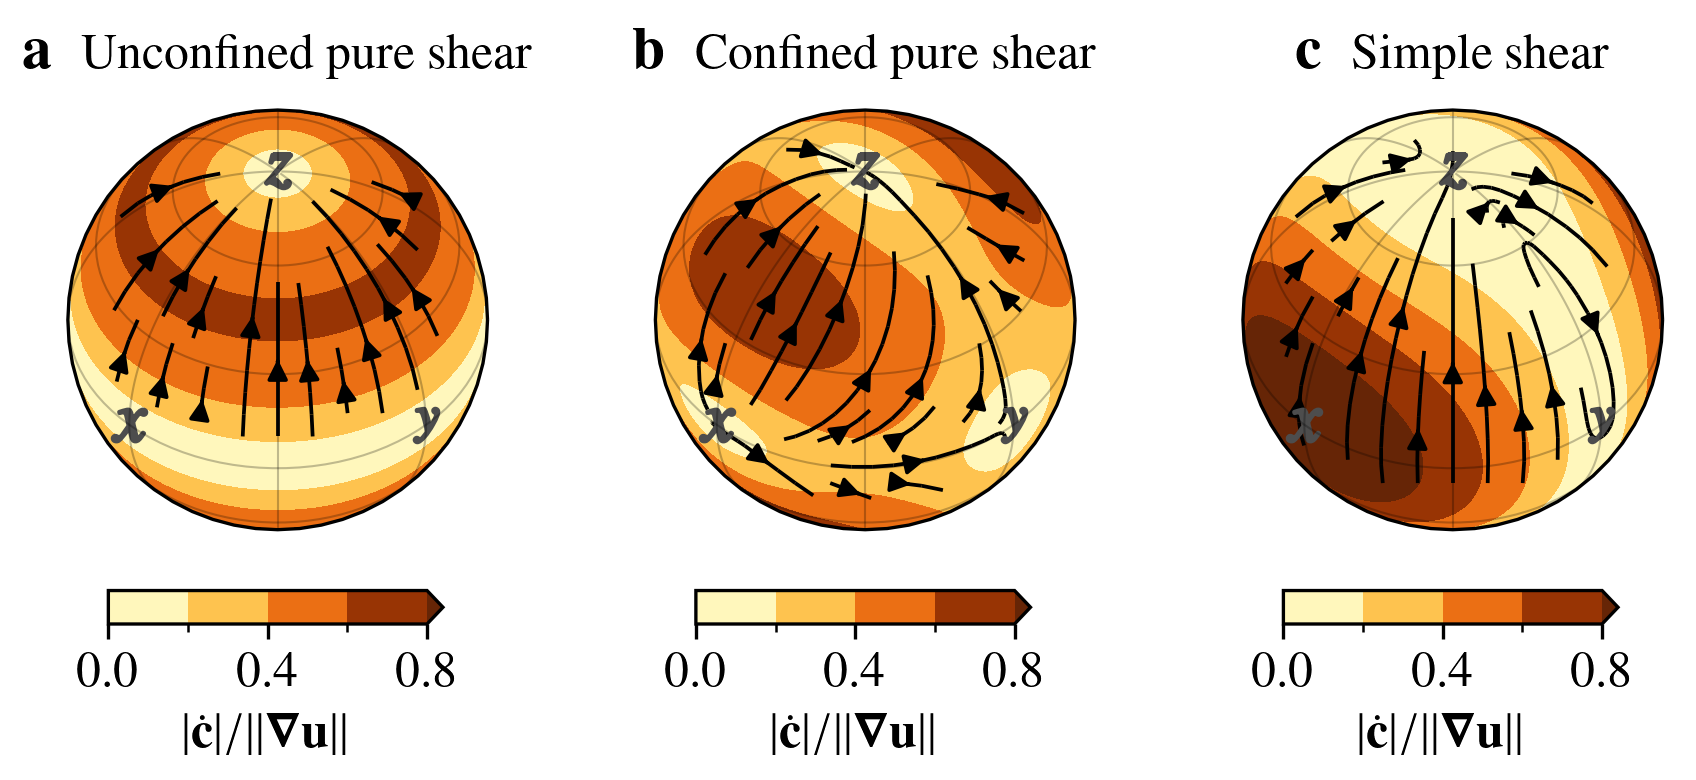
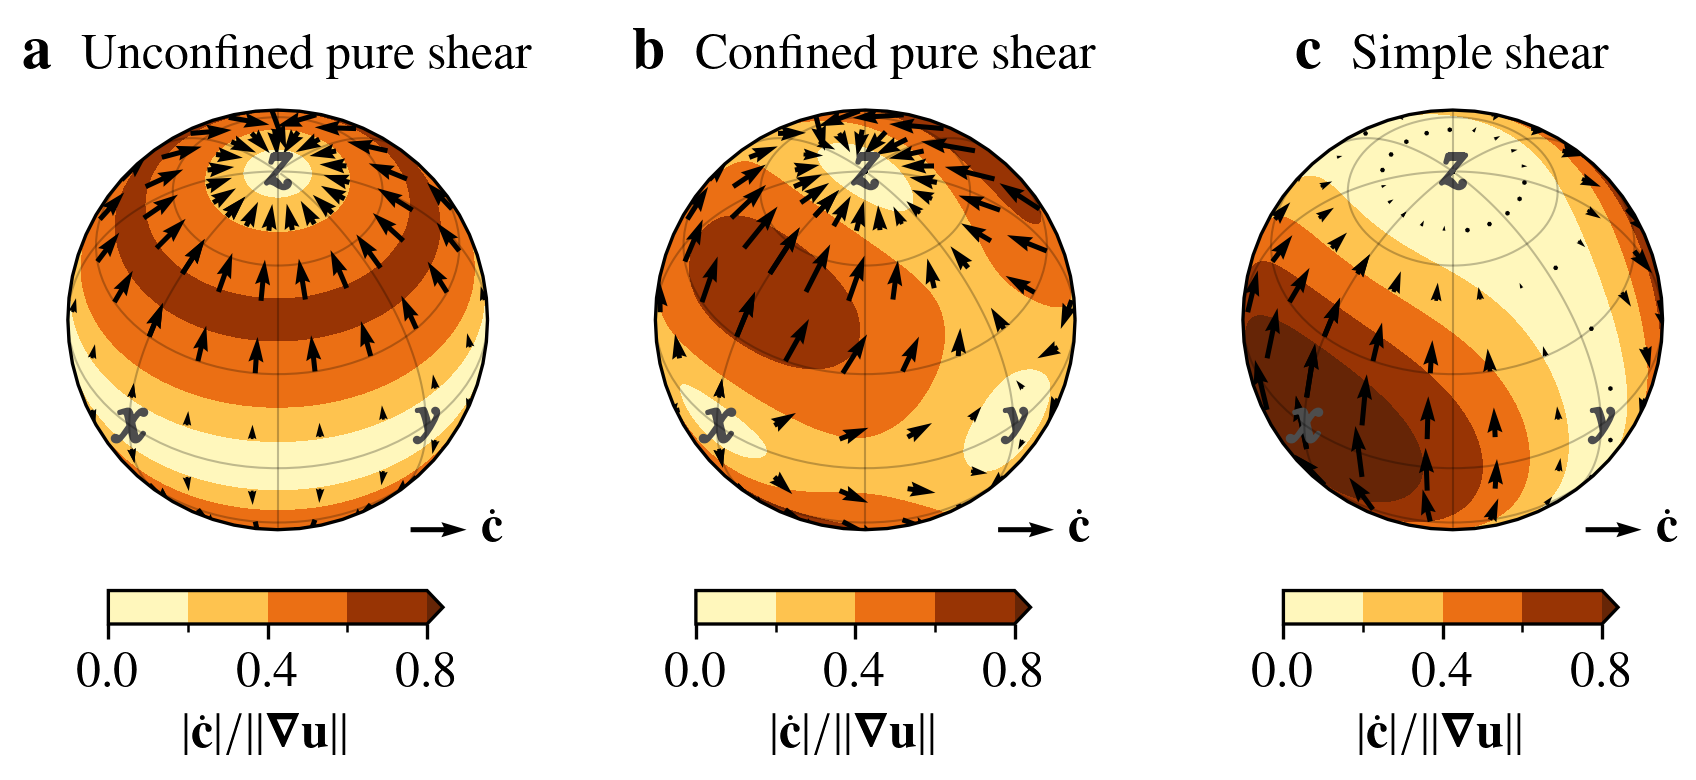
updated wiki figures

diff --git a/demo/latrot-caxis-velocity/latrot-caxis-velocity.py b/demo/latrot-caxis-velocity/latrot-caxis-velocity.py
@@ -9,7 +9,7 @@ from header import *
 import matplotlib.pyplot as plt
 import matplotlib.gridspec as gridspec
 
-#---------
+### High res
 
 mul = 10
 theta = np.linspace(0, np.pi, 20*mul)   
@@ -20,9 +20,22 @@ cv = np.array([np.cos(p2)*np.sin(t2), np.sin(p2)*np.sin(t2), +np.cos(t2)])
 tv = np.array([np.cos(p2)*np.cos(t2), np.sin(p2)*np.cos(t2), -np.sin(t2)]) 
 pv = np.array([-np.sin(p2), np.cos(p2), 0*p2]) 
 
-#---------
+### Low res
+
+mul = 1.0
+theta_ = np.linspace(0, np.pi, int(10*mul))   
+phi_   = np.linspace(0, 2*np.pi, int(20*mul))
+p2_, t2_ = np.meshgrid(phi_, theta_)
+
+cv_ = np.array([np.cos(p2_)*np.sin(t2_), np.sin(p2_)*np.sin(t2_), +np.cos(t2_)]) 
+tv_ = np.array([np.cos(p2_)*np.cos(t2_), np.sin(p2_)*np.cos(t2_), -np.sin(t2_)]) 
+pv_ = np.array([-np.sin(p2_), np.cos(p2_), 0*p2_]) 
+
+### Functions
 
 def plot(ugrad, ax, titlestr='', speedthres=0):
+
+    ### Contour high res
 
     D, W = (ugrad + ugrad.T)/2, (ugrad - ugrad.T)/2
 
@@ -33,16 +46,29 @@ def plot(ugrad, ax, titlestr='', speedthres=0):
     v = np.einsum('ijk,ijk->jk', cdot, tv)
     speed = np.linalg.norm(cdot, axis=0)
     u[speed<speedthres] = np.nan
-    
-#        u = np.einsum('ijk,il,ljk->jk', pv,W,cv) - np.einsum('ijk,il,ljk->jk', pv,D,cv) 
-#        u = np.divide(u, np.sin(t2)+0e-9)
-#        v = np.einsum('ijk,il,ljk->jk', tv,W,cv) - np.einsum('ijk,il,ljk->jk', tv,D,cv) 
 
     lvls = np.linspace(0,0.8,5)
     x, y = np.rad2deg(p2), np.rad2deg(t2 - np.pi/2) 
     F = speed/np.linalg.norm(ugrad)
     hdistr = ax.contourf(x,y, F, transform=ccrs.PlateCarree(), extend='max', cmap='YlOrBr', levels=lvls)
-    ax.streamplot(x,y,u,v, color='0', linewidth=0.9, density=[0.45,0.65], arrowsize=1,  transform=geo)
+#    ax.streamplot(x,y,u,v, color='0', linewidth=0.9, density=[0.45,0.65], arrowsize=1,  transform=geo)
+
+    ### Quiver, low res
+
+    cdot_ = np.einsum('ij,jkl->ikl', W, cv_) - np.einsum('ij,jkl->ikl', D, cv_) \
+         + np.einsum('ijk,ljk,lm,mjk->ijk', cv_,cv_,D,cv_)
+         
+    u_ = np.einsum('ijk,ijk->jk', cdot_, pv_)
+    v_ = np.einsum('ijk,ijk->jk', cdot_, tv_)
+    speed_ = np.linalg.norm(cdot_, axis=0)
+    u_[speed_<speedthres] = np.nan
+
+    cquiv = 'k' # #b2182b       
+#    cquiv = '#a50f15' # #b2182b
+    lvls = np.linspace(0,0.8,5)
+    x_, y_ = np.rad2deg(p2_), np.rad2deg(t2_ - np.pi/2) 
+    QV1 = ax.quiver(x_,y_,u_,v_, scale=7.5, width=0.012, color=cquiv, transform=geo)
+    plt.quiverkey(QV1, 0.95, 0.00, 1, r'$\dot{\vb{c}}$', labelpos='E', coordinates='axes', labelsep=0.05)
 
     kwargs_gridlines = {'ylocs':np.arange(-90,90+30,30), 'xlocs':np.arange(0,360+45,45), 'linewidth':0.5, 'color':'black', 'alpha':0.25, 'linestyle':'-'}
     gl = ax.gridlines(crs=ccrs.PlateCarree(), **kwargs_gridlines)
@@ -52,7 +78,7 @@ def plot(ugrad, ax, titlestr='', speedthres=0):
     cb1.ax.xaxis.set_ticks(lvls, minor=True)
     ax.set_title(titlestr, fontsize=FS, pad=10)
 
-#---------
+### Plot
 
 inclination = 45 # view angle
 rot0 = -90

diff --git a/tests/wigner-d-rotation-test/wigner-d-rotation-test.py b/tests/wigner-d-rotation-test/wigner-d-rotation-test.py
@@ -21,7 +21,7 @@ else:
 #    nlm[0,nlm_len-13] = 0.25
     nlm[0,nlm_len-(2*12+1)-(2*10+1)-0*(2*8+1)-0*(2*6+1)-0*(2*4+1)] = 0.3
 
-# Wigner D rotation of nlm, implemented in specfab only for components l<=4
+# Wigner D rotation of nlm, implemented in specfab only for components l<=12
 lat = np.deg2rad(-45)
 lon = np.deg2rad(45)
 nlm[1,:] = sf.rotate_nlm(nlm[0,:], lat, 0) # first rotate around y axis in x--z plane
